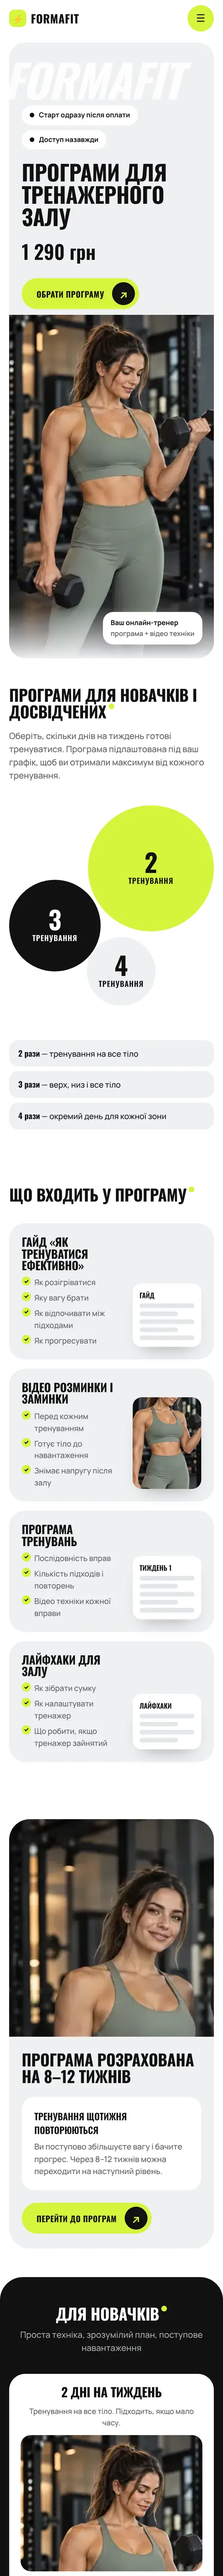
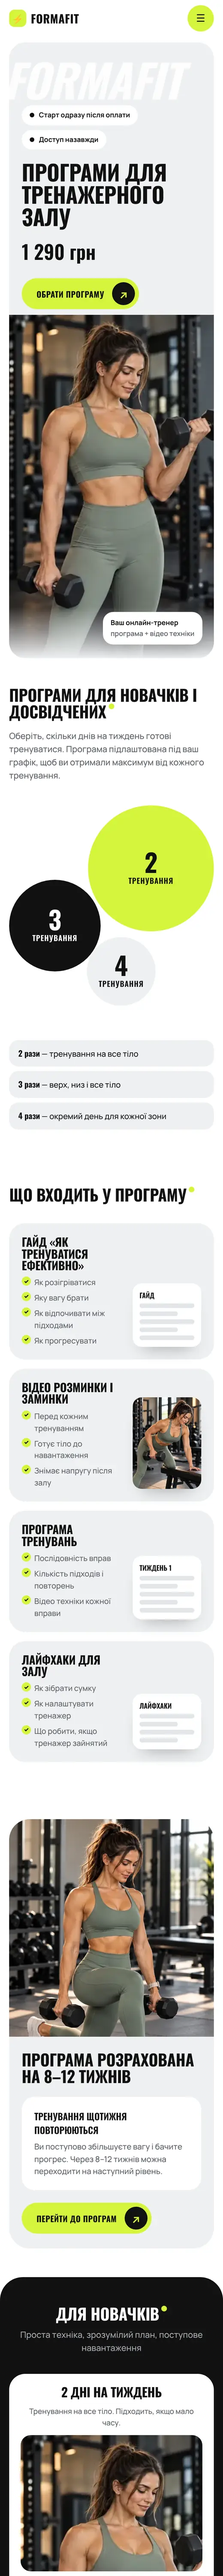
Фітнес-тренер: нові фото тренувань (тяга і випади)
Claude-Session: https://claude.ai/code/session_01Qb9NFWfcnySvqMrgupV51i

Changed region(s): [[0.0308, 0.6857, 0.9846, 0.8103], [0.5846, 0.5298, 0.9231, 0.5922]]

diff --git a/examples/sport.html b/examples/sport.html
@@ -215,7 +215,7 @@ section{padding:70px 0}
       <div class="card rv"><div><h3>Гайд «Як тренуватися ефективно»</h3><ul><li>Як розігріватися</li><li>Яку вагу брати</li><li>Як відпочивати між підходами</li><li>Як прогресувати</li></ul></div>
         <div class="mock"><b>Гайд</b><div></div><div></div><div></div><div></div><div></div></div></div>
       <div class="card rv"><div><h3>Відео розминки і заминки</h3><ul><li>Перед кожним тренуванням</li><li>Готує тіло до навантаження</li><li>Знімає напругу після залу</li></ul></div>
-        <div class="mock ph"><img src="fit/card3.webp" alt="" loading="lazy"></div></div>
+        <div class="mock ph"><img src="fit/row.webp" alt="" loading="lazy"></div></div>
       <div class="card rv"><div><h3>Програма тренувань</h3><ul><li>Послідовність вправ</li><li>Кількість підходів і повторень</li><li>Відео техніки кожної вправи</li></ul></div>
         <div class="mock"><b>Тиждень 1</b><div></div><div></div><div></div><div></div><div></div></div></div>
       <div class="card rv"><div><h3>Лайфхаки для залу</h3><ul><li>Як зібрати сумку</li><li>Як налаштувати тренажер</li><li>Що робити, якщо тренажер зайнятий</li></ul></div>
@@ -225,7 +225,7 @@ section{padding:70px 0}
 
   <section><div class="wrap">
     <div class="weeks rv">
-      <img src="fit/woman2.webp" alt="Тренерка в залі" loading="lazy">
+      <img src="fit/lunge.webp" alt="Тренерка в залі" loading="lazy">
       <div class="weeks-t">
         <h2>Програма розрахована на 8–12 тижнів</h2>
         <div class="box"><b>Тренування щотижня повторюються</b><p>Ви поступово збільшуєте вагу і бачите прогрес. Через 8–12 тижнів можна переходити на наступний рівень.</p></div>
@@ -239,8 +239,8 @@ section{padding:70px 0}
     <p class="sub">Проста техніка, зрозумілий план, поступове навантаження</p>
     <div class="cards">
       <div class="prog rv"><h3>2 дні на тиждень</h3><p>Тренування на все тіло. Підходить, якщо мало часу.</p><div class="pic"><img src="fit/card1.webp" alt="" loading="lazy"></div><div class="row"><b>1 290 грн</b><button class="btn" data-buy="Новачки · 2 дні">Отримати <i>↗</i></button></div></div>
-      <div class="prog rv"><h3>3 дні на тиждень</h3><p>Верх, низ і все тіло. Золота середина.</p><div class="pic"><img src="fit/card2.webp" alt="" loading="lazy"></div><div class="row"><b>1 290 грн</b><button class="btn" data-buy="Новачки · 3 дні">Отримати <i>↗</i></button></div></div>
-      <div class="prog rv"><h3>4 дні на тиждень</h3><p>Окремий день для кожної зони.</p><div class="pic"><img src="fit/card3.webp" alt="" loading="lazy"></div><div class="row"><b>1 290 грн</b><button class="btn" data-buy="Новачки · 4 дні">Отримати <i>↗</i></button></div></div>
+      <div class="prog rv"><h3>3 дні на тиждень</h3><p>Верх, низ і все тіло. Золота середина.</p><div class="pic"><img src="fit/row.webp" alt="" loading="lazy"></div><div class="row"><b>1 290 грн</b><button class="btn" data-buy="Новачки · 3 дні">Отримати <i>↗</i></button></div></div>
+      <div class="prog rv"><h3>4 дні на тиждень</h3><p>Окремий день для кожної зони.</p><div class="pic"><img src="fit/lunge.webp" alt="" loading="lazy"></div><div class="row"><b>1 290 грн</b><button class="btn" data-buy="Новачки · 4 дні">Отримати <i>↗</i></button></div></div>
     </div>
   </div></section>
 
@@ -252,8 +252,8 @@ section{padding:70px 0}
       <button role="tab" aria-selected="false" data-days="4">4 дні</button>
     </div>
     <div class="cards" id="pro">
-      <div class="prog soft rv"><h3><span class="d">2</span> дні · №1</h3><p>Акцент на сідниці й ноги.</p><div class="pic"><img src="fit/card2.webp" alt="" loading="lazy"></div><div class="row"><b>1 490 грн</b><button class="btn" data-buy="Досвідчені · №1">Отримати <i>↗</i></button></div></div>
-      <div class="prog soft rv"><h3><span class="d">2</span> дні · №2</h3><p>Акцент на спину й плечі.</p><div class="pic"><img src="fit/card1.webp" alt="" loading="lazy"></div><div class="row"><b>1 490 грн</b><button class="btn" data-buy="Досвідчені · №2">Отримати <i>↗</i></button></div></div>
+      <div class="prog soft rv"><h3><span class="d">2</span> дні · №1</h3><p>Акцент на сідниці й ноги.</p><div class="pic"><img src="fit/lunge.webp" alt="" loading="lazy"></div><div class="row"><b>1 490 грн</b><button class="btn" data-buy="Досвідчені · №1">Отримати <i>↗</i></button></div></div>
+      <div class="prog soft rv"><h3><span class="d">2</span> дні · №2</h3><p>Акцент на спину й плечі.</p><div class="pic"><img src="fit/row.webp" alt="" loading="lazy"></div><div class="row"><b>1 490 грн</b><button class="btn" data-buy="Досвідчені · №2">Отримати <i>↗</i></button></div></div>
       <div class="prog soft rv"><h3><span class="d">2</span> дні · №3</h3><p>Силова на все тіло.</p><div class="pic"><img src="fit/card3.webp" alt="" loading="lazy"></div><div class="row"><b>1 490 грн</b><button class="btn" data-buy="Досвідчені · №3">Отримати <i>↗</i></button></div></div>
     </div>
   </div></section>
